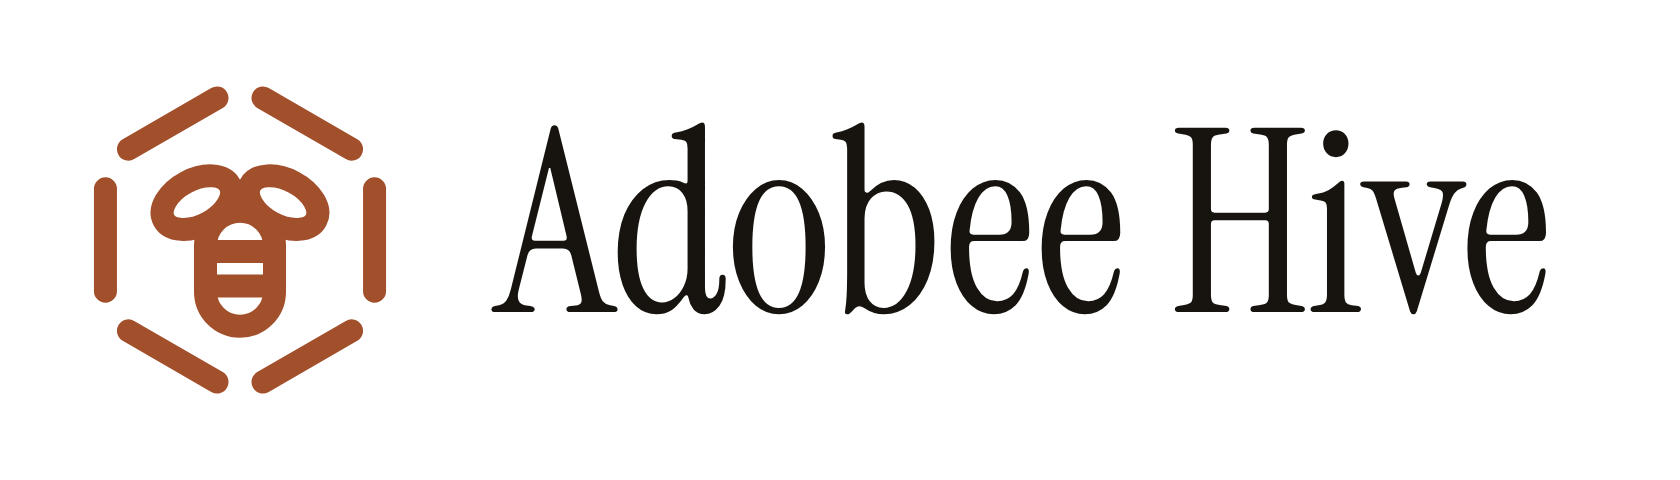
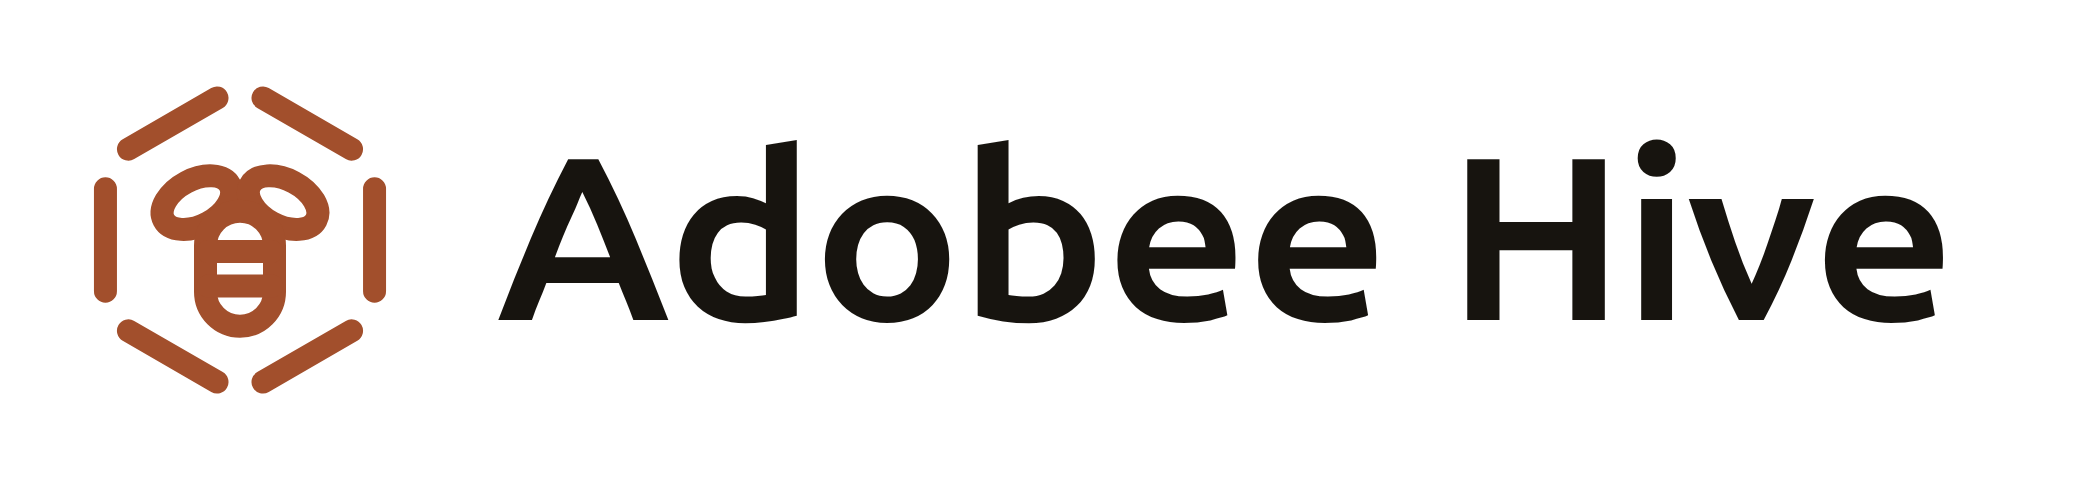
feat(brand): Mannin Bold for the brand name, under the Ubuntu Font Licence
The team supplied Mannin; its metadata names the Ubuntu Font Licence 1.0
(Canonical, Dalton Maag, Cristiano Sobral; fsType 0), which allows bundling and
redistribution. Only Bold is used, for the name in the nav and the wordmark. It
is a Latin WOFF2 subset (48 KB instead of 417 KB), renamed Mannin derivative
Adobee as clause 2c asks for a modified version, with the licence text beside it.

Claude-Session: https://claude.ai/code/session_01CgH9bCCtQzd9f39HWi4wPg

Changed region(s): [[0.031, 0.1875, 0.9595, 0.8125]]

diff --git a/code/frontend/src/styles.css b/code/frontend/src/styles.css
@@ -20,6 +20,12 @@
   font-display: swap;
 }
 @font-face {
+  font-family: "Mannin derivative Adobee";
+  src: url("/fonts/ManninDerivativeAdobee-Bold.woff2") format("woff2");
+  font-weight: 700;
+  font-display: swap;
+}
+@font-face {
   font-family: "Geist Mono";
   src: url("/fonts/GeistMono-Variable.woff2") format("woff2");
   font-weight: 100 900;
@@ -45,6 +51,7 @@
 
   --display: "Instrument Serif", "Iowan Old Style", Palatino, Georgia, serif;
   --body: "Geist", -apple-system, BlinkMacSystemFont, "Segoe UI", sans-serif;
+  --brand: "Mannin derivative Adobee", var(--body);
   --mono: "Geist Mono", "SF Mono", ui-monospace, Menlo, monospace;
 
   --t-xs: 0.75rem;
@@ -489,8 +496,9 @@ label {
   gap: var(--s6);
 }
 .nav .brand {
-  font-family: var(--display);
-  font-size: 1.25rem;
+  font-family: var(--brand);
+  font-weight: 700;
+  font-size: 1.125rem;
   color: var(--ink);
   text-decoration: none;
   display: flex;

diff --git a/code/frontend/public/fonts/README.md b/code/frontend/public/fonts/README.md
@@ -1,12 +1,13 @@
 # Fonts
 
-All fonts here are under the SIL Open Font License 1.1, which allows bundling and redistribution. Each licence
-text sits next to its files.
+All fonts here may be bundled and redistributed: Instrument Serif and Geist under the SIL Open Font License 1.1,
+Mannin under the Ubuntu Font Licence 1.0. Each licence text sits next to its files.
 
-| Files                                                           | Family                            | Source                                                                                          | Licence                   |
-| --------------------------------------------------------------- | --------------------------------- | ----------------------------------------------------------------------------------------------- | ------------------------- |
-| `InstrumentSerif-Regular.woff2`, `InstrumentSerif-Italic.woff2` | Instrument Serif (display)        | [Instrument](https://github.com/Instrument/instrument-serif), Latin subset via Fontsource 5.3.0 | `OFL-InstrumentSerif.txt` |
-| `Geist-Variable.woff2`, `GeistMono-Variable.woff2`              | Geist and Geist Mono (text, data) | [Vercel](https://vercel.com/font), npm `geist` 1.9.0                                            | `OFL-Geist.txt`           |
+| Files                                                           | Family                                                                | Source                                                                                           | Licence                   |
+| --------------------------------------------------------------- | --------------------------------------------------------------------- | ------------------------------------------------------------------------------------------------ | ------------------------- |
+| `InstrumentSerif-Regular.woff2`, `InstrumentSerif-Italic.woff2` | Instrument Serif (display)                                            | [Instrument](https://github.com/Instrument/instrument-serif), Latin subset via Fontsource 5.3.0  | `OFL-InstrumentSerif.txt` |
+| `Geist-Variable.woff2`, `GeistMono-Variable.woff2`              | Geist and Geist Mono (text, data)                                     | [Vercel](https://vercel.com/font), npm `geist` 1.9.0                                             | `OFL-Geist.txt`           |
+| `ManninDerivativeAdobee-Bold.woff2`                             | Mannin Bold (the brand name only), renamed _Mannin derivative Adobee_ | Mannin by Dalton Maag, Canonical and Cristiano Sobral, provided by the team; Latin subset, WOFF2 | `UFL-Mannin.txt`          |
 
-Mannin, named in the first brand sketch, is not bundled: its licence could not be verified for redistribution in a
-public repository.
+Why the new name: the Ubuntu Font Licence asks that a modified version (subsetting and converting count) keeps the
+original name and adds "derivative X". The copyright notice stays in the file's metadata.

diff --git a/documentation/BRAND.md b/documentation/BRAND.md
@@ -80,14 +80,17 @@ chosen row, a valid seal, the moment you approve. Status is always a dot and a w
 | `--clay-dark` | `#5a2e1a` | Ink on clay |
 | `--bad` | `#a3321f` | Rejected, only ever with the word that says so |
 
-Type, all bundled under the SIL Open Font License (files and licence texts in `code/frontend/public/fonts/`):
+Type, all bundled with their licence texts in `code/frontend/public/fonts/`:
 
 - **Instrument Serif** for display: headlines at regular weight, tight leading, and one *italic phrase in clay*
   (write it as `*text*` in a string; `components/Display.tsx` sets it).
 - **Geist** for text and UI.
 - **Geist Mono** for tool names, signatures and the run's mode line.
 
-Mannin, from the whiteboard, is not bundled: its licence could not be verified for redistribution in a public repo.
+- **Mannin Bold** for the brand name only: the nav and the wordmark, next to the mark. It is the font from the
+  whiteboard, bundled under the Ubuntu Font Licence 1.0 as *Mannin derivative Adobee* (a Latin subset, renamed as
+  that licence asks; see `code/frontend/public/fonts/README.md`). The set we have has no upright regular, so it is
+  not used for text.
 
 Icons are our own (`components/Icon.tsx`): 24 px, 1.5 px stroke, drawn on the logo's hexagon. No icon font.
 
